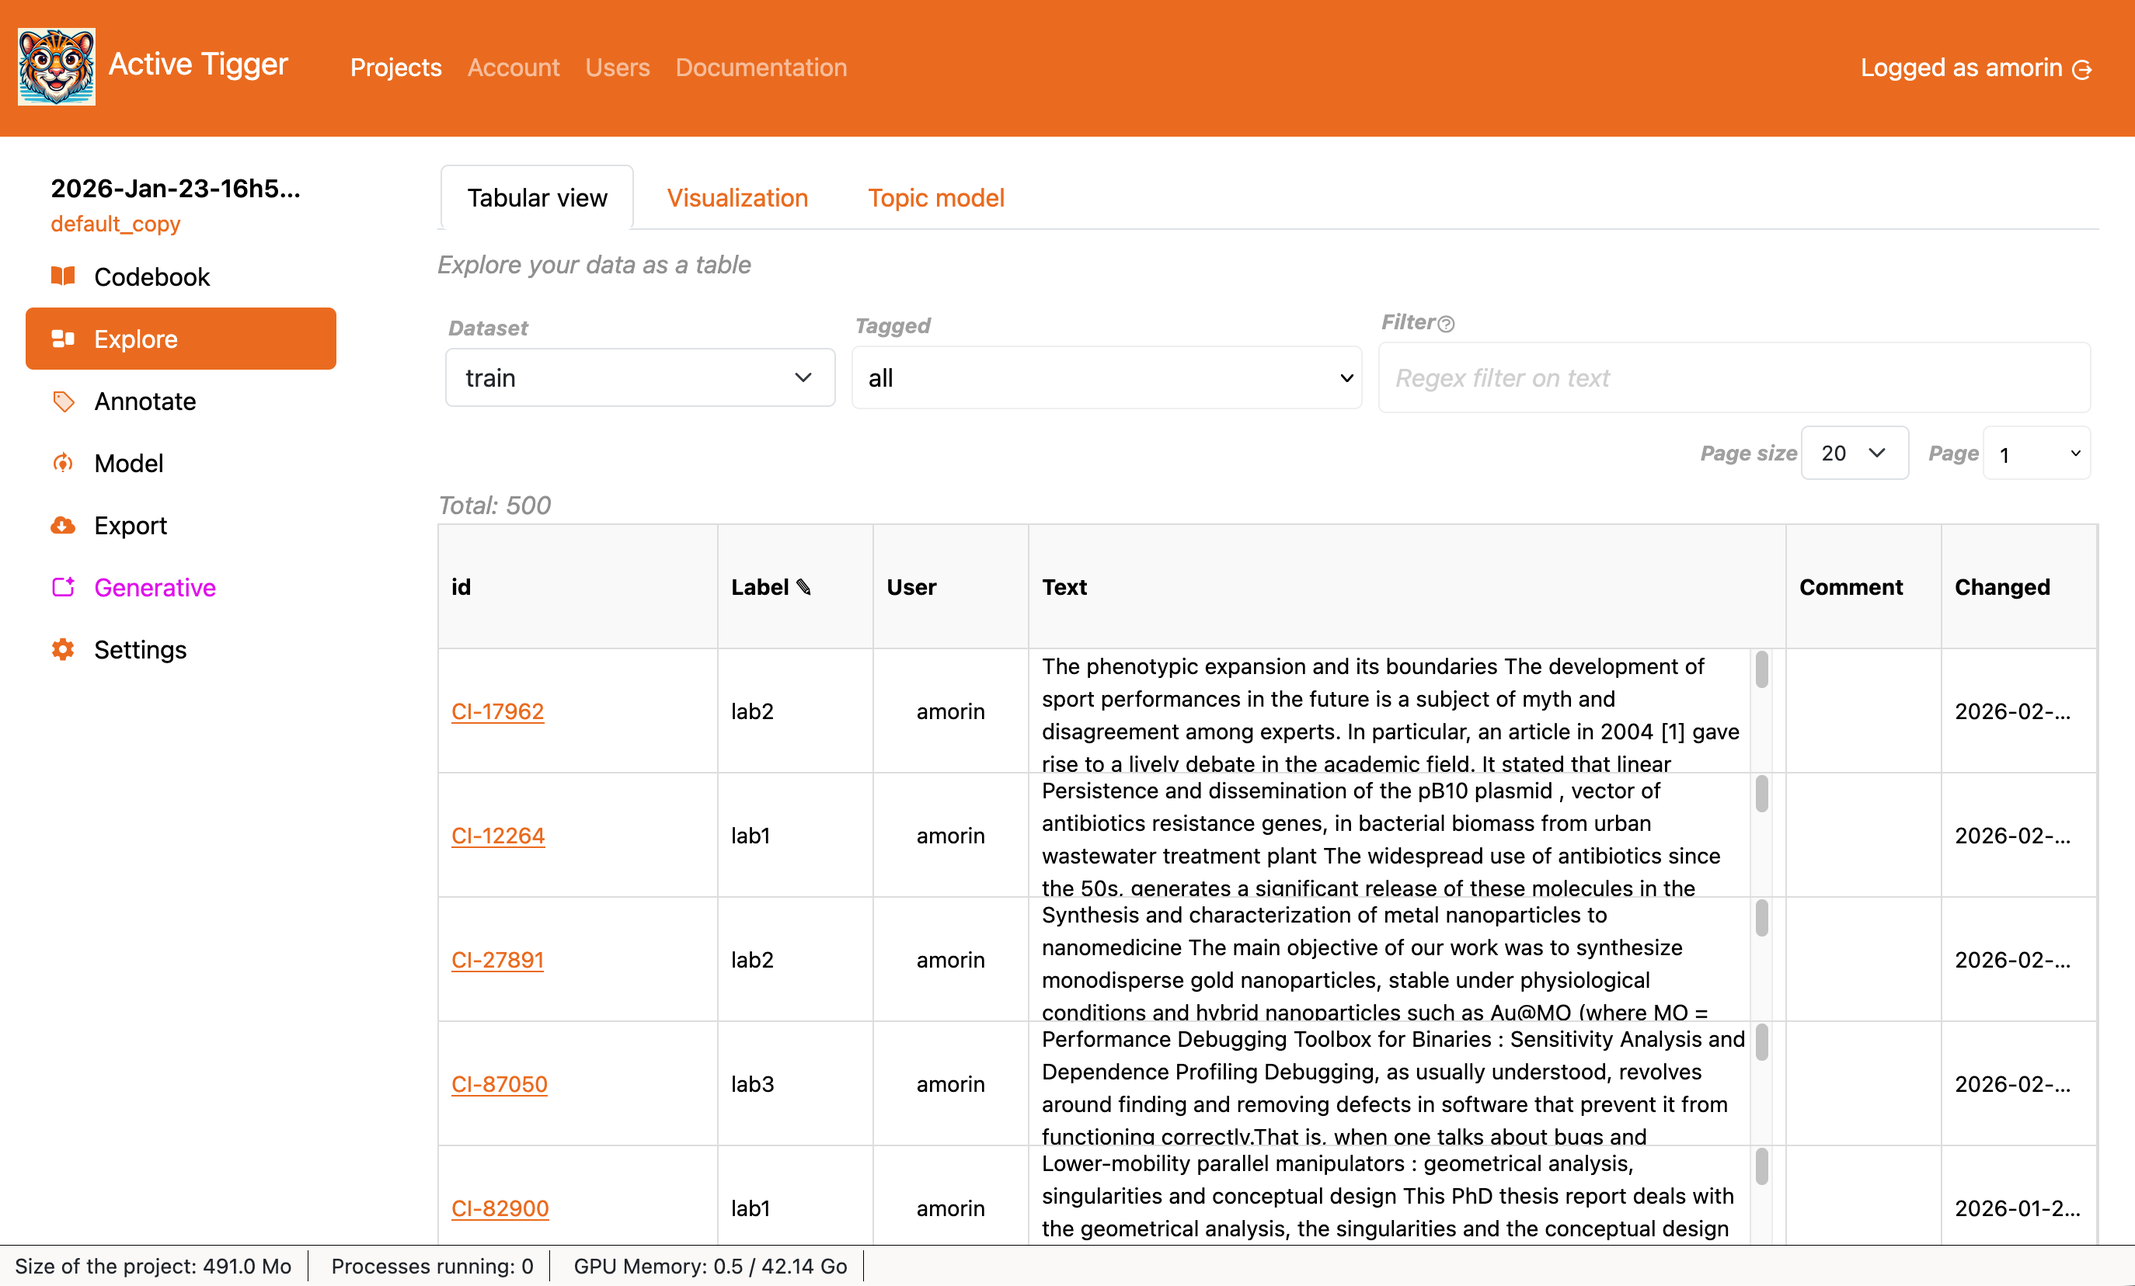
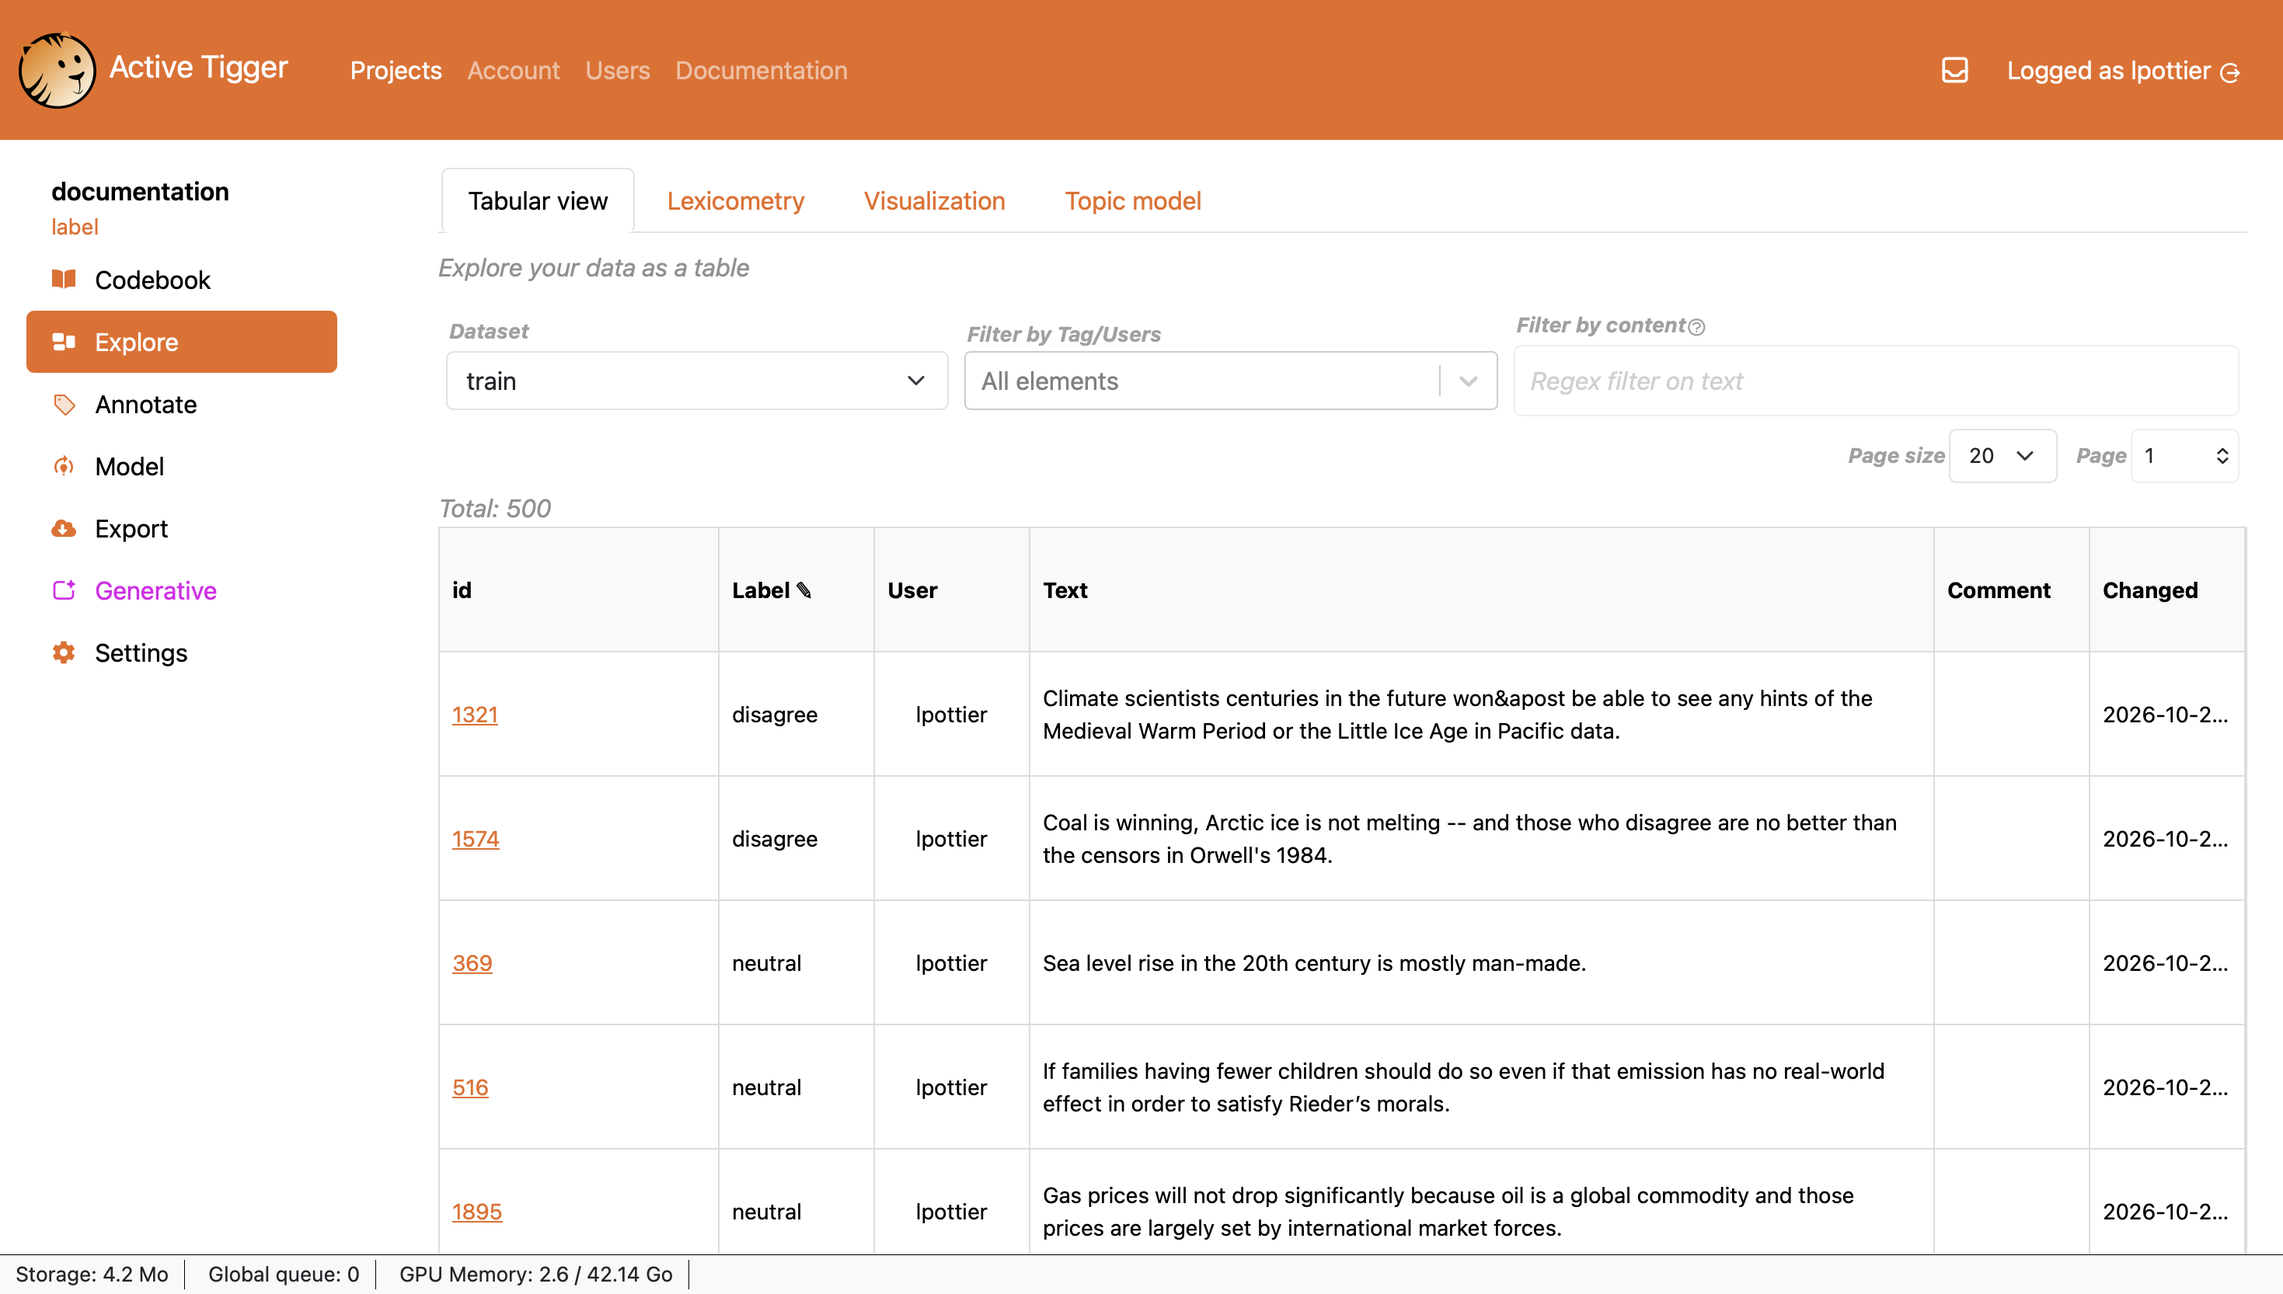
updated explore page

diff --git a/docs/functionalities/explore.md b/docs/functionalities/explore.md
@@ -1,51 +1,73 @@
 # Explore Page
 
-The explore panel allows to get an overview of the text datasets, either as a table or visualisation.
+The Explore panel allows to get an overview of your dataset by visualizing your data as a table and computing statistics, projections and topic modeling.
 
 ## Tabular View
 
-The tabular view displays your data in a tabular view. Filters are available to assist your exploration.
+The Tabular view displays your data as a table. Filters are available to assist your exploration.
 
 ![](../img/functionalities/tabular-view.png)
 
+- The table contains 6 columns including the text id, the assigned label, the user who assigned the label, the text, comments (if any), and the date the label was assigned.
+   - Click on one <span class="action secondary">id</span> to go to the [Annotate page](./annotate.md) and annotate the selected text input. This is also where you can edit or delete a comment (re-assign the label to save your changes). 
+   - Double-click on a <span class="action secondary">label</span> cell to annotate in the tabular view. Click <span class="action primary">Validate changes</span> to save changes in the database. 
+    
 - Filters available
-    - Select the dataset to explore ("train", "valid" or "test").
-    - Select elements with a tag.
+    - Select the dataset to explore ("train", "validation" or "test").
+    - Select elements with a given label or annotated by a given user. 
     - Select elements given a [regex query](https://medium.com/@victoriousjvictor/understanding-regular-expressions-regex-e1c048f5aa6c).
-- The table: The table contains 6 columns including the id, the label, the user who produced the label, the text, comments (if any), and the date the label was produced.
-    - Click on the <span class="action primary">id</span> to go to the [Annotate page](./annotate.md) and annotate the text input.
-    - Click on the <span class="action primary">label</span> to annotate in the tabular view. Click <span class="action primary">Validate changes</span> to save changes in the database.
+
+## Lexicometry
+
+The Lexicometry tab displays various statistics on your "train" data. 
+
+!!! warning 
+    There can only be one lexicometry computation per project.   
+    Be aware that recomputing lexicometrics it will overwrite the current computation. 
+
+![](../img/functionalities/lexicometry.png)
+
+- Document length: This section provides statistics over word and token counts (using the bert-base-multilingual-cased tokenizer). 
+   - The table shows descriptive statistics over the set of documents. 
+   - The graphs show the distribution of documents according to their length in words (top graph) or tokens (bottom graph). Information on the histogram's bin width is available underneath. 
+
+- Most frequent words (stopword excluded): This section shows the most frequent words across your train set, with their associated frequency count. 
+
+- TF-IDF explorer: This section uses the [TF-IDF measure](https://en.wikipedia.org/wiki/Tf–idf) to display the most significative words in your corpus. TF-IDF scores are computed for each word in each document: a high score means that the word is both highly frequent in the document and rare in the overall corpus.
+   - By word: displays the first twenty-five documents where the selected word is the word with the highest TF-IDF score, along with the score. In the <span class="parameter">Select a word</span> menu, you can see the total number of documents in which a given word has the highest TF-IDF score. 
+   - By document: for each document, displays the words that have the highest TF-IDF scores, along with the scores. The table only shows the first fifty documents. You can search for a specific document using its id. 
+
 
 ## Visualization
 
-The visualization tab displays a [projection](../conceptualizing/general.md#projections) of the embedding space in two dimensions. Projections are computed with either [UMAP](https://pair-code.github.io/understanding-umap/) or [t-SNE](https://en.wikipedia.org/wiki/T-distributed_stochastic_neighbor_embedding). 
-
-!!! warning 
-    There is only one projection per project. 
-    Computing a new projection will overwrite the current projection.
+The Visualization tab displays a [projection](../conceptualizing/general.md#projections) of the embedding space in two dimensions. Projections are computed with either [UMAP](https://pair-code.github.io/understanding-umap/) or [t-SNE](https://en.wikipedia.org/wiki/T-distributed_stochastic_neighbor_embedding). 
 
 ![](../img/functionalities/visualisation.png)
 
 - <span class="action primary">Compute new projection</span>
-    - <span class="parameter">Select a feature</span>: choose the set of feature ([what are features?](../conceptualizing/general.md#representing-texts-with-features)) to use for the projection. If choosing several sets of features, they will be concatenated before projection. <span class="action secondary">Add a new feature</span> to [Compute new features](../functionalities/settings.md#features).
-    - When using **UMAP**:
-        - <span class="parameter">n neighbors</span>: Defines the size of a neighbourhood, hence whether two points are considered as "close" and should be kept together in the process or not.
-        - <span class="parameter">min distance</span>: Aesthetic parameter, low values generate denser representations.
-    - When using **t-SNE**:
-        - <span class="parameter">perplexity</span>: It controls the effective number of neighbors that each point considers during the dimensionality reduction process. ([Source](https://opentsne.readthedocs.io/en/latest/parameters.html#perplexity)).
-    - <span class="parameter">Feature scaling</span>: this method normalizes the range of independent variables (i.e. each feature) ([should I scale my features?](../faq/faq.md#should-i-scale-my-features)).
+    - <span class="parameter">Name</span>: unique name (per project) for the projection.
+    - <span class="parameter">Select a feature</span>: choose the set of feature ([what are features?](../conceptualizing/general.md#representing-texts-with-features)) to use for the projection. If choosing several sets of features, they will be concatenated before projection.     
+    <span class="action secondary">Add a new feature</span> to [Compute new features](../functionalities/settings.md#features).
+    - When <span class="parameter secondary">Select a model</span> is **UMAP** (default):
+        - <span class="parameter secondary">n_neighbors</span>: defines the size of a neighborhood, hence whether two points are considered as "close" and should be kept together in the process or not.
+        - <span class="parameter secondary">min_dist</span>: aesthetic parameter for how close the kept points should be represented. Low values generate denser representations.
+    - When <span class="parameter secondary">Select a model</span> is **t-SNE**:
+        - <span class="parameter secondary">perplexity</span>: controls the effective number of neighbors that each point considers during the dimensionality reduction process ([more information](https://opentsne.readthedocs.io/en/latest/parameters.html#perplexity)).
+    - <span class="parameter secondary">Feature scaling</span>: this method normalizes the range of independent variables (i.e. each feature) ([should I scale my features?](../faq/faq.md#should-i-scale-my-features)).
+
 - <span class="action secondary">Parameters</span> to see the parameters of the current projection.
+
 - The visualization panel displays each text input in a 2D space. The color of the node depends on the label, _or the absence thereof_. 
     - <span class="icon">![](../img/icons/visualisation-control/frame.svg)</span> to select a subset of text inputs.
     - <span class="icon">![](../img/icons/visualisation-control/frame-off.svg)</span> removes the frame.
-    - _If a frame exists_, <span class="icon">![](../img/icons/visualisation-control/lock.svg)</span><span class="action secondary"> Lock the selection</span> to lock on the frame. Going to the [Annotate page](./annotate.md) will only display elements in the frame.
+    - _If a frame exists_, <span class="icon">![](../img/icons/visualisation-control/lock.svg)</span><span class="action secondary"> Lock on selection</span> to lock on the frame. This will induce the [Annotate page](./annotate.md) to only display elements in the frame.
     - Clicking a node displays the text input as well as previous annotations and the [Annotation Panel](./annotate.md#annotation-panel), much like in the [Annotation page](./annotate.md)
 
-Projections can be downloaded from the [Export page](./export.md#features).
+Projection nodes' coordinates can be downloaded from the [Export page](./export.md#features).
 
 ## Topic model
 
-The [topic model](../conceptualizing/general.md#topic-models)) section displays existing topic models (for a given project, across all users) and allows to compute new ones with [BERTopic](https://bertopic.com/)[^1]. 
+The Topic model section displays existing [topic models](../conceptualizing/general.md#topic-models) on the "train" dataset (for a given project, across all users) and allows to compute new ones with [BERTopic](https://bertopic.com/)[^1]. 
 
 [^1]: Find a full tutorial on BERTopic for the social sciences [here](https://www.css.cnrs.fr/the-general-inquirer-in-the-time-of-llms-a-bertopic-tutorial/).
 
@@ -54,25 +76,28 @@ The visual representation of the topics displays each text input as a node with 
 ![](../img/functionalities/bertopic.png)
 
 - <span class="action primary">Compute new BERTopic</span> to create a new topic model.
-    - <span class="parameter">Name</span>: must be unique (per project)
-    - <span class="parameter">Embedding model</span>: choose from the [available embedding models](../faq/faq.md#choose-models-made-available) to compute the embeddings that will be used for fitting the model. These embeddings will be computed if they do not exist already for a given dataset.
-    - <span class="parameter">Number of neighbours</span>: [UMAP parameter](https://pair-code.github.io/understanding-umap/) — a dimension reduction algorithm; low values will generate a topic model focusing on local structures (i.e. very specific topics) whereas higher values will generate a topic model focusing on the overall structure (i.e. general topics) (more [here](https://css-polytechnique.github.io/css-ipp-materials/pages/techy-notes.html#tbl-umap-parameters)).
-    - <span class="parameter">Min topic size</span>: [HDBSCAN parameter](https://scikit-learn.org/stable/modules/generated/sklearn.cluster.HDBSCAN.html) — a clustering algorithm —, this parameter corresponds to the minimum number of elements in a group to be considered a cluster, otherwise the group is considered as noise. Increasing this value will generate a few large groups, while decreasing this value will generate many small groups.
-    - <span class="parameter secondary">Outlier reduction</span>: If set to `True`, all text inputs considered as noise will be added to the closest topic ([more info](https://css-polytechnique.github.io/css-ipp-materials/pages/techy-notes.html#reduce-outliers-strategies)).
-    - <span class="parameter secondary">Force compute embeddings</span>: If set to `True`, the app will first generate the embeddings overwriting any existing embeddings. 
-    - <span class="parameter secondary">Input dataset</span>: Which dataset should be used to fit the model (train, train + test + valid or the complete dataset uploaded to the project).
-    - <span class="parameter secondary">Filter out texts of length lower than</span>: Before fitting the model, exclude text inputs of length inferior to this value. 
-    - <span class="parameter secondary">Number of components</span>: [UMAP parameter](https://pair-code.github.io/understanding-umap/) — a dimension reduction algorithm; it defines the number of dimensions the algorithm reduces the embeddings to. Low values will flatten the representation of the input texts, whereas higher values maintain a richer representation (more [here](https://css-polytechnique.github.io/css-ipp-materials/pages/techy-notes.html#tbl-umap-parameters)).
+    - <span class="parameter">Name</span>: unique name (per project) for the computation.
+    - <span class="parameter">Embeddings feature</span>: choose an already-computed sentence-embedding feature. To use a different embedding model, first compute it from [the Features tab of the Settings](../functionalities/settings.md#features). 
+    - <span class="parameter">Number of neighbors</span>: dimension reduction parameter from the[UMAP algorithm](https://pair-code.github.io/understanding-umap/). Low values will generate a topic model focusing on local structures (i.e. very specific topics) whereas higher values will generate a topic model focusing on the overall structure (i.e. general topics) ([more information](https://css-polytechnique.github.io/css-ipp-materials/pages/techy-notes.html#tbl-umap-parameters)).
+    - <span class="parameter">Min topic size</span>: clustering parameter from the [HDBSCAN algorithm](https://scikit-learn.org/stable/modules/generated/sklearn.cluster.HDBSCAN.html). This parameter corresponds to the minimum number of elements in a group to be considered a cluster, otherwise the group is considered as noise. Increasing this value will generate a few large topics, while decreasing this value will generate many small topics.
+    - <span class="parameter secondary">Outlier reduction</span>: if ticked (default), all text inputs considered as noise will be added to the closest topic ([more information](https://css-polytechnique.github.io/css-ipp-materials/pages/techy-notes.html#reduce-outliers-strategies)).
+    - <span class="parameter secondary">Input dataset</span>: which dataset should be used to fit the model (train or train + test + valid).
+    - <span class="parameter secondary">Filter out texts of length lower than</span>: before fitting the model, exclude text inputs of length inferior to this value. 
+    - <span class="parameter secondary">Number of components</span>: dimension reduction parameter from the [UMAP algorithm](https://pair-code.github.io/understanding-umap/). It defines the number of dimensions that the algorithm reduces the embeddings to. Low values flatten the representation of the input texts, whereas higher values maintain a richer representation ([more information](https://css-polytechnique.github.io/css-ipp-materials/pages/techy-notes.html#tbl-umap-parameters)).
+
 - <span class="action secondary">Parameters</span> to see the parameters of the current topic model.
-- <span class="action primary">Convert to scheme</span> to create a [scheme](../conceptualizing/glossary.md#schemes) and assign labels using the topics generated. *Topic-generated labels should be used with caution and carefully reviewed, since they are not based on human annotation*.
-- <span class="action primary">Export topics</span> to download (csv file) the topic table displayed underneath.
-- <span class="action primary">Export topic per text</span> to download a mapping of each element id[^2] to the topic index.
-- <span class="action primary">Topic model report</span> to download an HTML report with key insights (topics description, 2D map, hierarchical representation, representative documents and the parameters of the model).
+- <span class="action secondary">Convert to scheme</span> to create a [scheme](../conceptualizing/glossary.md#schemes) and assign labels using the topics generated. *Topic-generated labels should be used with caution and carefully reviewed, since they are not based on human annotation*.
+- <span class="action secondary">Convert to feature</span> to create a new feature based on the embeddings of the current topic model.
+- <span class="action secondary">Export topics</span> to download the topic table displayed underneath (in CSV format).
+- <span class="action secondary">Export topic per text</span> to download a mapping of each element id[^2] to the topic index it corresponds to (in CSV format). 
+- <span class="action secondary">Topic model report</span> to download an HTML report with key insights (topics description, 2D map, hierarchical representation, representative documents and parameters of the model).
+- <span class="action secondary">Embeddings</span> to download the embeddings of the current topic model (in parquet format).
+
 - The table summarises the topic model. 
     - Topic: the topic id.
     - Count: the number of elements in the topic.
-    - Name: A standard name for the topic.
-    - Representation: A list of keywords that represent the topic.
-    - Representative docs: A list of documents that are at the core of the topic generated.
+    - Name: a standard name for the topic.
+    - Representation: a list of keywords that represent the topic.
+    - Representative docs: a list of documents that are at the core of the topic generated.
 
 [^2]: As set up when [creating a project](./project-creation.md).
